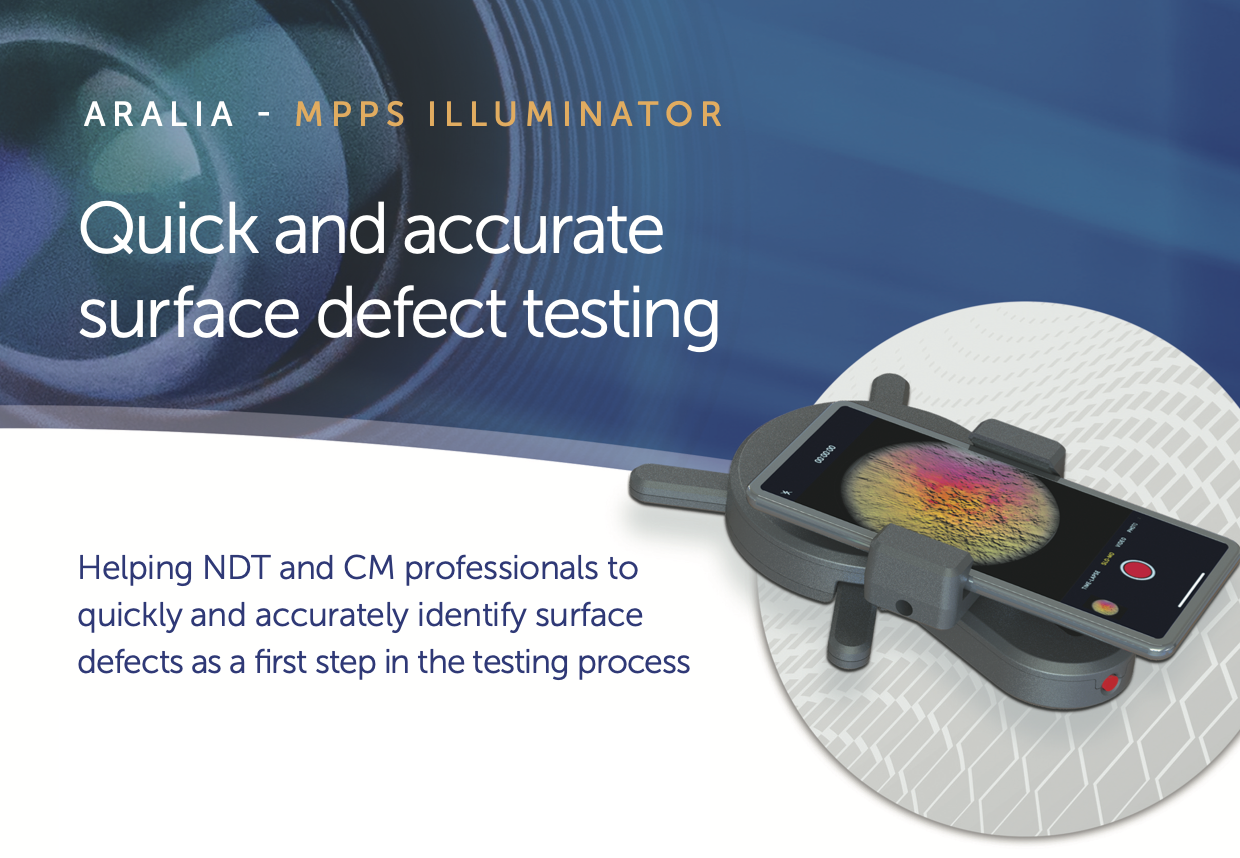
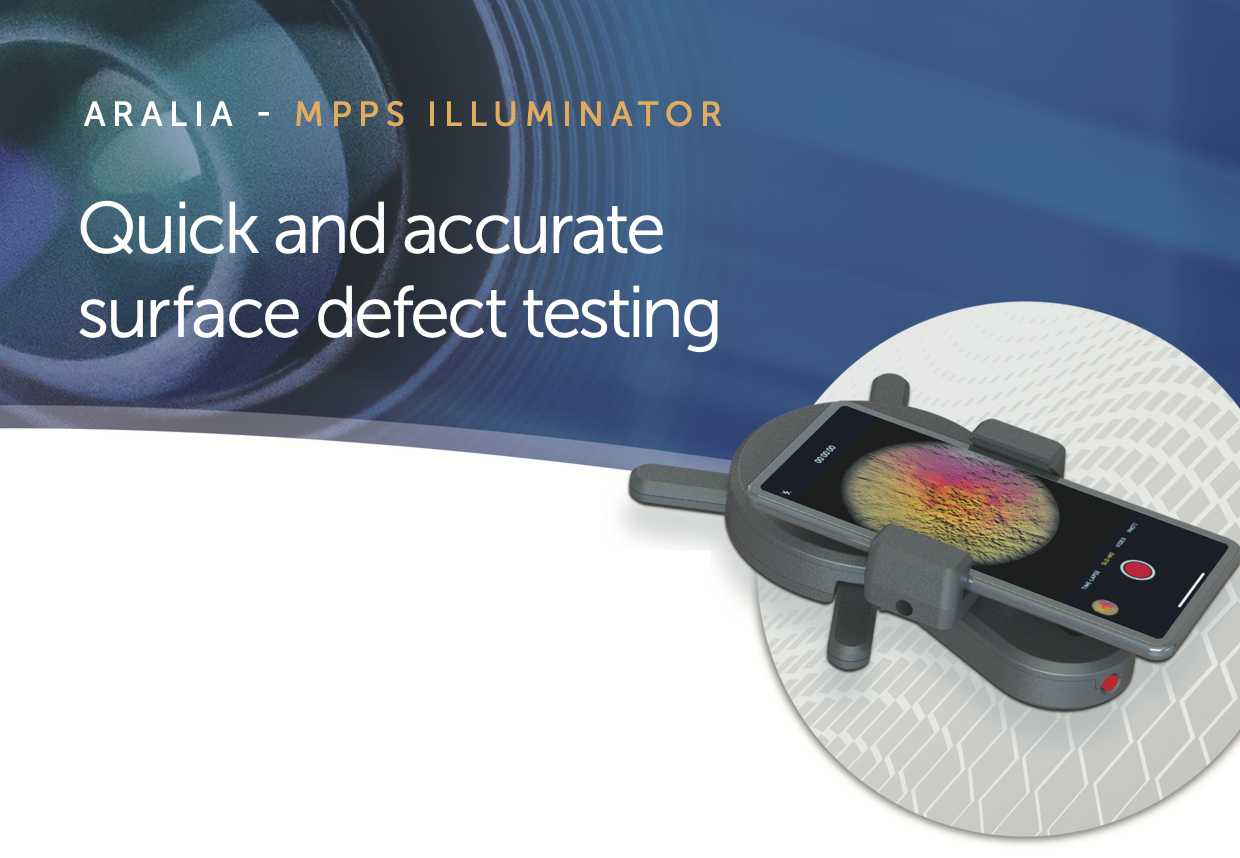
first page first draft

Changed region(s): [[0.0613, 0.6364, 0.521, 0.7273], [0.0613, 0.7576, 0.5516, 0.7879]]

diff --git a/index.html b/index.html
@@ -1,59 +1,78 @@
 <!DOCTYPE html>
 <html lang="en">
+
 <head>
-<meta charset="UTF-8">
-<meta name="viewport" content="width=device-width, initial-scale=1.0">
-<meta http-equiv="X-UA-Compatible" content="ie=edge">
-<meta name="Description" content="Aralia's 3D Surface Scanner"/>
-<link rel="stylesheet" href="https://cdnjs.cloudflare.com/ajax/libs/twitter-bootstrap/4.6.0/css/bootstrap.min.css">
-<link rel="stylesheet" href="https://cdnjs.cloudflare.com/ajax/libs/font-awesome/5.15.4/css/all.min.css">
-<link rel="stylesheet" href="assets/css/style.css">
-<title>Surface Scanner</title>
+    <meta charset="UTF-8">
+    <meta name="viewport" content="width=device-width, initial-scale=1.0">
+    <meta http-equiv="X-UA-Compatible" content="ie=edge">
+    <meta name="Description" content="Aralia's 3D Surface Scanner" />
+    <link rel="stylesheet" href="https://cdnjs.cloudflare.com/ajax/libs/twitter-bootstrap/4.6.0/css/bootstrap.min.css">
+    <link rel="stylesheet" href="https://cdnjs.cloudflare.com/ajax/libs/font-awesome/5.15.4/css/all.min.css">
+    <link rel="stylesheet" href="assets/css/style.css">
+    <title>Surface Scanner</title>
 </head>
+
 <body>
     <div class="container-fluid">
-<div class="row first-text">
-    <div class="col-8 ">
-        <div class="card mr-4 ml-4">
-            <h3>Solving an industry problem</h3>
-            <p>The UK Non-Destructive Testing (NDT) and Condition Monitoring (CM) industry has invested in various defect testing techniques such as Eddy Current, LiDAR, Ultrasonic, Dye Penetrant and Radiography to ensure the safety, quality and productivity for major industries.</p>
+        <div class="row first-text">
+            <div class="col-7 ">
+                <div class="card ml-3 ml-sm-4 pt-2 pl-lg-4">
+                    <h2 class="d-none d-md-block blue mb-5">Helping NDT and CM professionals to quickly and accurately identify surface defects as a ﬁrst step in the testing process</h2>
+                    <h3 class="d-block d-md-none blue mb-4">Helping NDT and CM professionals to quickly and accurately identify surface defects as a ﬁrst step in the testing process</h3>
+                </div>
+            </div>
+            <div class="col-12 col-md-8 pr-md-0">
+                <div class="card ml-3 ml-sm-4 mr-2 mr-sm-3 mr-md-0 px-lg-4">
+                    <h4 class="">Solving an industry problem</h4>
+                    <p class="">The UK Non-Destructive Testing (NDT) and Condition Monitoring (CM)
+                        industry has invested in various defect testing techniques such as Eddy Current, LiDAR,
+                        Ultrasonic, Dye Penetrant and Radiography to ensure the safety, quality and productivity for
+                        major industries.</p>
+                    <p>To keep large assets operational, companies rely on NDT and CM regimes to determine the need for
+                        maintenance or repairs. This extends asset lifespan, reducing the need for capital investment to
+                        replace integral equipment and prevents operational failures. Over 25,000 inspections are
+                        carried out every day in the UK.
+                    </p>
+                    <p>Aralia System Ltd&#8217;s (ASL) MPPS Illuminator is designed to be used as the ﬁrst step in the
+                        NDT and CM process. Acting as a useful aid it can quickly and easily be used
+                        on site for initial assessments to determine if additional resources or more rigorous testing is
+                        required. Working in conjunction with a smartphone our low-cost device uses photometric stereo
+                        to take detailed 3D colour images of a surface and any imperfections up to 5mm below the
+                        surface.
+                    </p>
+                    <h3 class="d-none d-md-block">How does it work?</h3>
+                    <h4 class="d-block d-md-none">How does it work?</h4>
+                    <p>Our MPPS Illuminator is an extremely aﬀordable Photometric Stereo (PS) illumination device that interlocks with a smartphone enabling it to capture and process images revealing high-resolution and detailed 3D colour images of a surface and any imperfections up to 5mm below the surface.</p>
+                    <p>Our device works &#8217;out of the box&#8217; with minimal training and all necessary software is easy to download. The images can be processed locally on the phone, via the cloud  and transmitted oﬀ site for a remote assessment by expert review or automated via Machine Learning which is critical during  pandemics  such as COVID-19.  The simplicity and low price point of our innovative MPPS Illuminator enables high volumes to be   readily distributed whenever necessary. Our solution also includes facilities for archiving, displaying and processing images through the application of machine learning.</p>
+                </div>
+                
+            </div>
+            <div class="col-12 col-md-4 mt-md-5 pl-4 pl-md-0 pr-md-5 pt-lg-5">
+                <ul class="fa-ul pt-lg-5">
+                    <li><span class="fa-li"><i class="fas fa-circle fa-xs"></i></span>Low cost</li>
+                    <li><span class="fa-li"><i class="fas fa-circle fa-xs"></i></span>Saves time, money and resources</li>
+                    <li><span class="fa-li"><i class="fas fa-circle fa-xs"></i></span>Improves accuracy of visual testing </li>
+                    <li><span class="fa-li"><i class="fas fa-circle fa-xs"></i></span>Easy to use with user friendly app </li>
+                    <li><span class="fa-li"><i class="fas fa-circle fa-xs"></i></span>Indoor and outdoor applications</li>
+                    <li><span class="fa-li"><i class="fas fa-circle fa-xs"></i></span>Helps prevent costly structural and asset failure between regular annual inspections</li>
+                    <li><span class="fa-li"><i class="fas fa-circle fa-xs"></i></span>Includes active and passive thermography options</li>
+                </ul>
+            </div>
+            <div class="col-12 col-md-8 px-5">
+                <div class="card mt-3 mt-md-5">
+                    <p class="large"><i class="fas fa-quote-left blue pr-2"></i>Our leading technology is also being further advanced to include photogrammetry, time-of-ﬂight (TOF) and thermal imaging techniques.   <i class="fas fa-quote-right blue pl-1"></i></p>
+                </div>
+            </div>
+            <div class="col-12 col-md-4 offset-md-0 text-center">
+                <img src="assets/images/logo.png" alt="Aralia logo">
+            </div>
         </div>
     </div>
-    <div class="col-12 col-md-8 ">
-    <div class="card ml-4">
-        <p>To  keep large assets operational, companies rely on NDT and CM regimes to determine the need for maintenance or repairs. This extends asset lifespan, reducing the need for capital investment to replace integral equipment and prevents operational failures. Over 25,000 inspections are carried out every day in the UK.
-        </p>
-        <p>Aralia System Ltd&#8217;s (ASL) MPPS Illuminator is designed to be used as the ﬁrst step    in the NDT and CM process. Acting as a useful aid it can quickly and easily be used
-            on site for initial assessments to determine if additional resources or more rigorous testing is required. Working in conjunction with a smartphone our low-cost device uses photometric stereo to take detailed 3D colour images of a surface and any imperfections up to 5mm below the surface.
-            </p>
-            <h3>How does it work?</h3>
-    </div>
-<div class=""> BLAHBLAH </div>
-<div class=""> BLAHBLAH </div>
-<div class=""> BLAHBLAH </div>
-<div class=""> BLAHBLAH </div>
-<div class=""> BLAHBLAH </div>
-<div class=""> BLAHBLAH </div>
-<div class=""> BLAHBLAH </div>
-<div class=""> BLAHBLAH </div>
-<div class=""> BLAHBLAH </div>
-
-</div>
-<div class="col-12 col-md-4 pt-md-5 mt-md-5 ">
-<div class=""> BLAHBLAH </div>
-<div class=""> BLAHBLAH </div>
-<div class=""> BLAHBLAH </div>
-<div class=""> BLAHBLAH </div>
-<div class=""> BLAHBLAH </div>
-<div class=""> BLAHBLAH </div>
-<div class=""> BLAHBLAH </div>
-</div>
-</div>
-</div>
 
 
-<script src="https://cdnjs.cloudflare.com/ajax/libs/jquery/3.5.1/jquery.slim.min.js"></script>
-<script src="https://cdnjs.cloudflare.com/ajax/libs/popper.js/1.16.1/umd/popper.min.js"></script>
-<script src="https://cdnjs.cloudflare.com/ajax/libs/twitter-bootstrap/4.6.0/js/bootstrap.min.js"></script>
+    <script src="https://cdnjs.cloudflare.com/ajax/libs/jquery/3.5.1/jquery.slim.min.js"></script>
+    <script src="https://cdnjs.cloudflare.com/ajax/libs/popper.js/1.16.1/umd/popper.min.js"></script>
+    <script src="https://cdnjs.cloudflare.com/ajax/libs/twitter-bootstrap/4.6.0/js/bootstrap.min.js"></script>
 </body>
+
 </html>

diff --git a/assets/css/style.css b/assets/css/style.css
@@ -11,11 +11,28 @@ body{
 }
 
 .first-text{
-    margin-top: 60%;
+    margin-top: 45%;
+}
+
+.blue{
+    color:royalblue;
 }
 
 .card{
     border:none;
+    background-color: transparent;
+}
+
+.fa-circle{
+    color:orange;
+    padding-right: 5px;
+}
+
+li{
+    padding:12px 0;
+}
+.large{
+    font-size: 115%;
 }
 
 footer{
